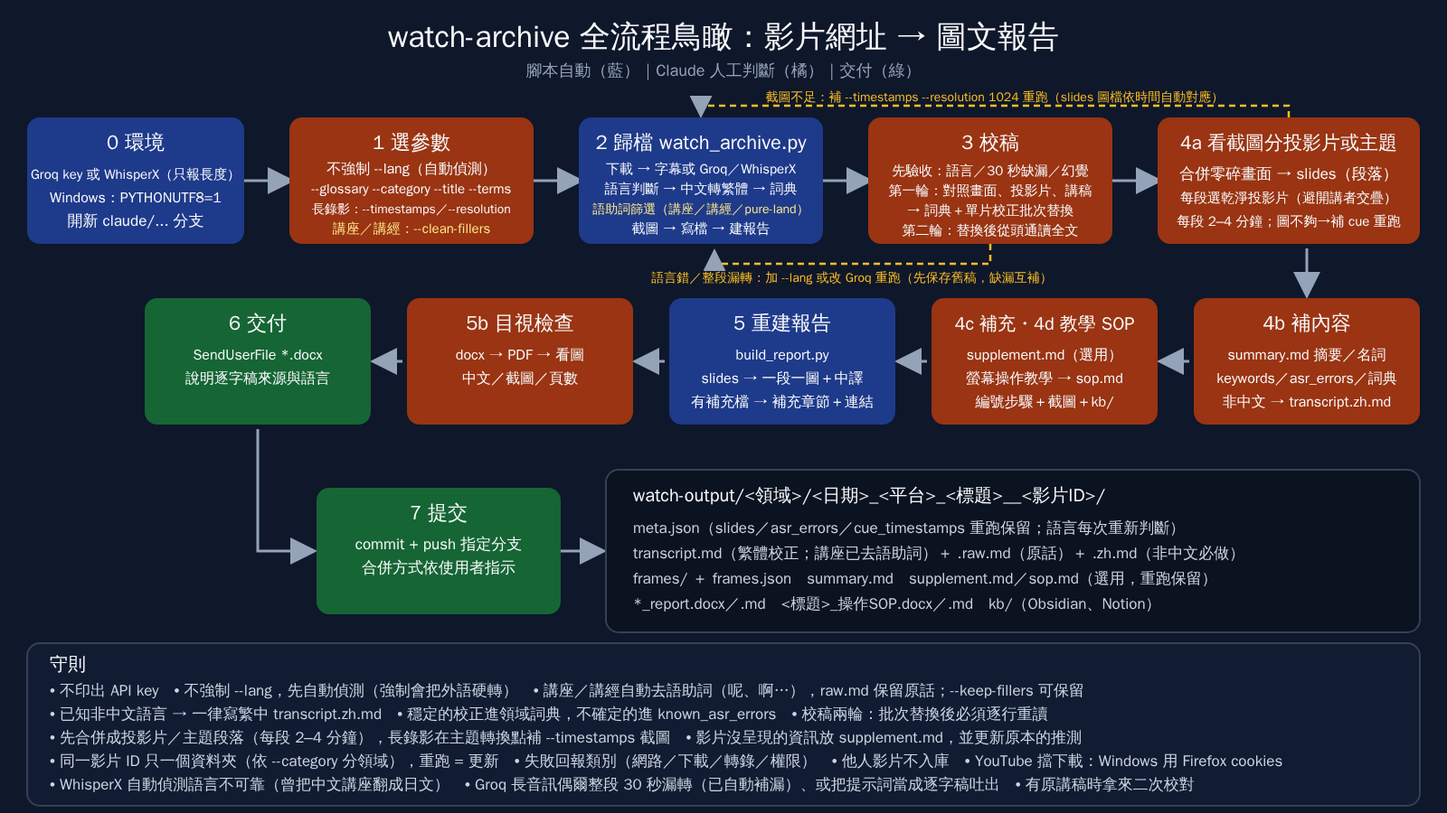
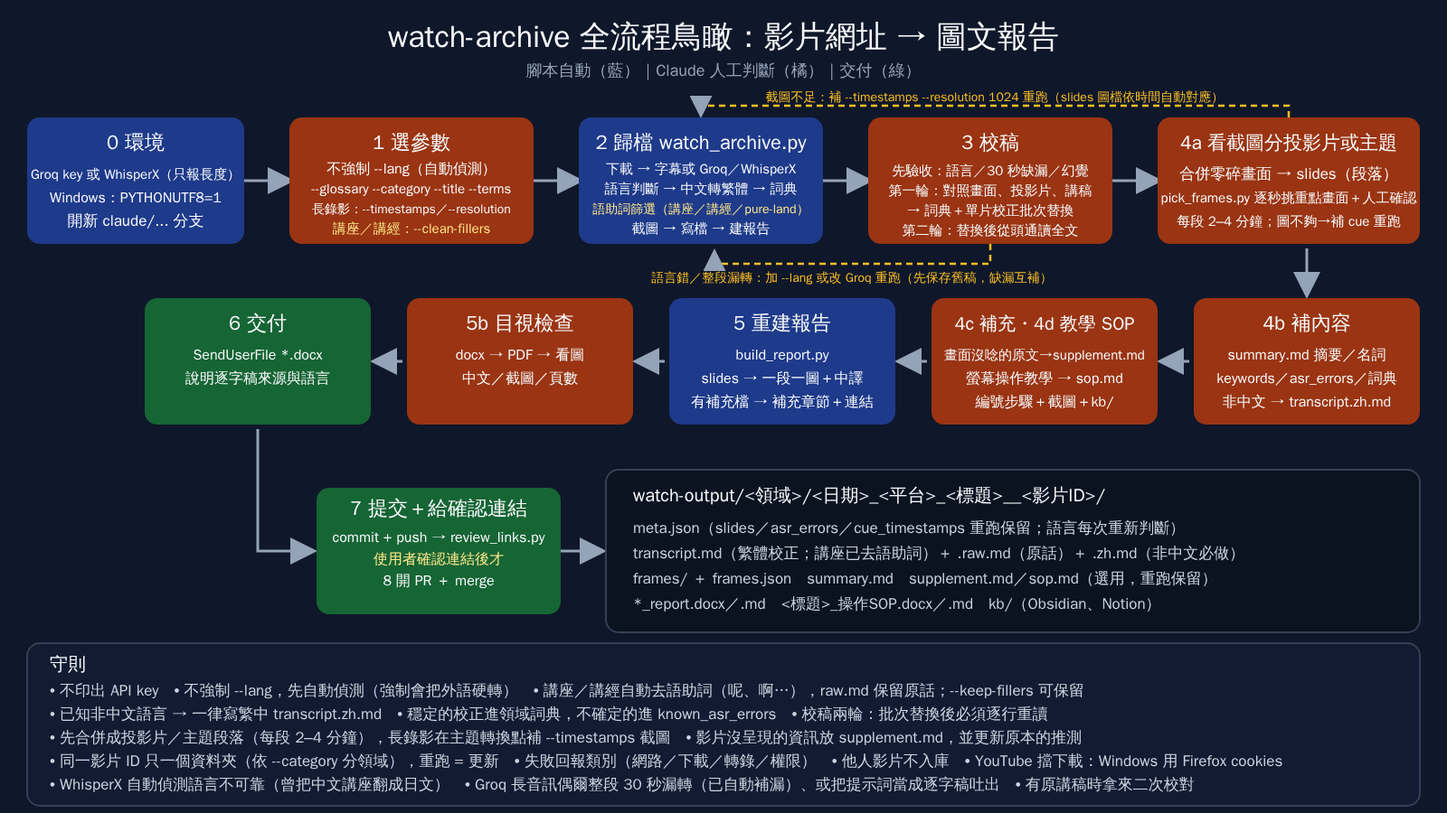
watch-archive 流程：確認連結、截圖對到重點、畫面轉補充資料 (#37)
* 流程：歸檔完成後先給確認連結（review_links.py），確認後才開 PR 並 merge；更新流程圖

Claude-Session: https://claude.ai/code/session_01L64g9APcu4JhruyafgYU1h

* 4a 截圖對到重點：新增 pick_frames.py（逐秒縮圖表＋建議秒數＋apply），技能、流程圖與 CLAUDE.md 加上做法

Claude-Session: https://claude.ai/code/session_01L64g9APcu4JhruyafgYU1h

* 4c 畫面／投影片轉補充資料：pick_frames.py text（原始解析度截圖＋同時段逐字稿），技能加判斷準則與抄錄步驟，更新流程圖

Claude-Session: https://claude.ai/code/session_01L64g9APcu4JhruyafgYU1h

---------

Changed region(s): [[0.2188, 0.5911, 0.375, 0.7156], [0.6562, 0.4044, 0.7812, 0.4667], [0.8125, 0.2178, 0.9688, 0.2489]]

diff --git a/scripts/pick_frames.py b/scripts/pick_frames.py
@@ -1,0 +1,188 @@
+#!/usr/bin/env python3
+"""Pick one key frame per slide so each report section shows its point (SKILL step 4a).
+
+Scene-change frames often land mid-animation or on a transition (half-drawn slides, blank cards). This samples the
+video once per second, scores every second inside each slide's time window (detail = how much is on screen,
+stability = how little it changes from its neighbours, i.e. the animation has finished), and writes labelled
+contact sheets so Claude can confirm or override the suggestion by eye. The chosen seconds are then grabbed at
+1024px as frames/slide_NN.jpg and wired into meta.json slides + frames.json.
+
+Usage:
+  python3 scripts/pick_frames.py sheet <folder> --video <file> [--out <dir>]   # contact sheets + suggested seconds
+  python3 scripts/pick_frames.py apply <folder> --video <file> --at "00:03,00:31,..."   # one time per slide
+  python3 scripts/pick_frames.py text <folder> --video <file> --out <dir>   # full-res slides + what was said, for supplement.md
+
+The video comes from `watch_archive.py --keep-media` (media/) or a yt-dlp download to the scratchpad; it is never
+committed. A rerun of watch_archive.py wipes frames/, so apply again after a rerun.
+"""
+import argparse
+import json
+import subprocess
+import sys
+import tempfile
+from pathlib import Path
+
+from PIL import Image, ImageChops, ImageDraw, ImageFilter, ImageFont, ImageStat
+
+sys.path.insert(0, str(Path(__file__).resolve().parent))
+from build_report import to_sec  # noqa: E402
+
+THUMB_W = 216
+CJK_FONTS = ("/usr/share/fonts/truetype/wqy/wqy-zenhei.ttc", "/usr/share/fonts/opentype/noto/NotoSansCJK-Regular.ttc",
+             "C:/Windows/Fonts/msjh.ttc")
+
+
+def label_font(size=16):
+    """A CJK-capable font so slide titles are readable on the sheet; PIL's default font turns 中文 into boxes."""
+    for f in CJK_FONTS:
+        if Path(f).exists():
+            return ImageFont.truetype(f, size)
+    return ImageFont.load_default()
+
+
+def windows(starts, duration):
+    """[start, end) seconds for each slide: from its start to the next slide's start (the last one to the end)."""
+    s = [to_sec(t) for t in starts]
+    return [(a, b) for a, b in zip(s, s[1:] + [int(duration) + 1])]
+
+
+def scores(thumbs):
+    """detail × stability² per second: rich, fully drawn and not mid-transition scores high."""
+    gray = [Image.open(p).convert("L") for p in thumbs]
+    detail = [ImageStat.Stat(g.filter(ImageFilter.FIND_EDGES)).mean[0] for g in gray]
+    out = []
+    for i, g in enumerate(gray):
+        diffs = [ImageStat.Stat(ImageChops.difference(g, gray[j])).mean[0] / 255
+                 for j in (i - 1, i + 1) if 0 <= j < len(gray)]
+        stability = 1 - max(diffs, default=0)
+        out.append(detail[i] * stability ** 2)
+    return out
+
+
+def best_in_window(score, start, end, margin=2):
+    """Highest-scoring second in [start, end); ties go to the later second (animations build up).
+
+    The first `margin` seconds and the last second are skipped when the window is long enough: at a slide boundary
+    the screen often still shows the previous slide or is mid-transition.
+    """
+    end = min(end, len(score))
+    lo, hi = (start + margin, end - 1) if end - start >= margin + 4 else (start, end)
+    rng = list(range(lo, hi))
+    return max(rng, key=lambda i: (score[i], i)) if rng else start
+
+
+def spoken_lines(transcript: str, start: int, end: int):
+    """Transcript lines whose [mm:ss] falls in [start, end): what the speaker actually said while a slide was up."""
+    out = []
+    for line in transcript.splitlines():
+        if line.startswith("[") and "]" in line:
+            try:
+                t = to_sec(line[1:line.index("]")])
+            except ValueError:
+                continue
+            if start <= t < end:
+                out.append(line)
+    return out
+
+
+def mmss(sec: int) -> str:
+    return f"{sec // 60:02d}:{sec % 60:02d}"
+
+
+def sample(video: Path, tmp: Path):
+    subprocess.run(["ffmpeg", "-v", "error", "-i", str(video), "-vf", f"fps=1,scale={THUMB_W}:-2", str(tmp / "%04d.jpg")],
+                   check=True)
+    return sorted(tmp.glob("*.jpg"))  # file k (0-based) ≈ second k
+
+
+def contact_sheet(thumbs, start, end, best, title, out: Path):
+    sub = list(range(start, min(end, len(thumbs))))
+    w, h = Image.open(thumbs[0]).size
+    cols = min(8, max(1, len(sub)))
+    rows = (len(sub) + cols - 1) // cols
+    sheet = Image.new("RGB", (w * cols, h * rows + 28), "white")
+    d = ImageDraw.Draw(sheet)
+    d.text((6, 4), title, fill="black", font=label_font())
+    for k, sec in enumerate(sub):
+        x, y = (k % cols) * w, (k // cols) * h + 28
+        sheet.paste(Image.open(thumbs[sec]), (x, y))
+        color = "lime" if sec == best else "red"
+        d.rectangle((x, y, x + 52, y + 18), fill=color)
+        d.text((x + 3, y + 3), mmss(sec), fill="black")
+        if sec == best:
+            d.rectangle((x, y, x + w - 1, y + h - 1), outline="lime", width=4)
+    sheet.save(out)
+
+
+def register_slides(folder: Path, picks):
+    """Point meta.json slides[i].frame at slide_NN.jpg and record them in frames.json (reason clean-slide)."""
+    meta = json.loads((folder / "meta.json").read_text(encoding="utf-8"))
+    frames = [f for f in json.loads((folder / "frames.json").read_text(encoding="utf-8")) if not f["file"].startswith("slide_")]
+    for i, sec in enumerate(picks, 1):
+        name = f"slide_{i:02d}.jpg"
+        meta["slides"][i - 1]["frame"] = name
+        frames.append({"file": name, "t": mmss(sec), "reason": "clean-slide"})
+    for p, data in (("meta.json", meta), ("frames.json", frames)):
+        (folder / p).write_text(json.dumps(data, ensure_ascii=False, indent=2) + "\n", encoding="utf-8")
+
+
+def main():
+    ap = argparse.ArgumentParser()
+    ap.add_argument("mode", choices=["sheet", "apply", "text"])
+    ap.add_argument("folder")
+    ap.add_argument("--video", required=True)
+    ap.add_argument("--out", help="where contact sheets go (default: a temp dir)")
+    ap.add_argument("--at", help="apply: comma-separated MM:SS, one per slide in order")
+    args = ap.parse_args()
+    folder, video = Path(args.folder), Path(args.video)
+    slides = json.loads((folder / "meta.json").read_text(encoding="utf-8")).get("slides", [])
+    if not slides:
+        sys.exit("meta.json has no slides yet: write slides (start/title/note) first, then pick frames")
+
+    if args.mode == "text":
+        # Claude reads these full-resolution frames (small code / prompt text is unreadable at report size) and compares
+        # them with what was said; only what is on screen but NOT spoken goes into supplement.md.
+        out = Path(args.out or tempfile.mkdtemp(prefix="screen_text_"))
+        out.mkdir(parents=True, exist_ok=True)
+        transcript = (folder / "transcript.md").read_text(encoding="utf-8")
+        frames = {f["file"]: f["t"] for f in json.loads((folder / "frames.json").read_text(encoding="utf-8"))}
+        duration = int(subprocess.run(["ffprobe", "-v", "error", "-show_entries", "format=duration", "-of", "csv=p=0",
+                                       str(video)], capture_output=True, text=True, check=True).stdout.strip().split(".")[0])
+        for i, ((a, b), sl) in enumerate(zip(windows([s["start"] for s in slides], duration), slides), 1):
+            t = frames.get(sl.get("frame", ""), sl["start"])
+            img = out / f"slide_{i:02d}_full.png"
+            subprocess.run(["ffmpeg", "-v", "error", "-y", "-ss", f"{to_sec(t)}.5", "-i", str(video), "-frames:v", "1",
+                            str(img)], check=True)
+            print(f"## {i:02d} {sl.get('title', '')}  [{mmss(a)}-{mmss(b)}]  screen at {t}: {img}")
+            print("\n".join(spoken_lines(transcript, a, b)) or "(nothing said)")
+            print()
+        return
+
+    if args.mode == "apply":
+        picks = [to_sec(t.strip()) for t in (args.at or "").split(",") if t.strip()]
+        if len(picks) != len(slides):
+            sys.exit(f"--at has {len(picks)} times but meta.json has {len(slides)} slides")
+        for i, sec in enumerate(picks, 1):
+            subprocess.run(["ffmpeg", "-v", "error", "-y", "-ss", f"{sec}.5", "-i", str(video), "-frames:v", "1",
+                            "-vf", "scale=1024:-2", str(folder / "frames" / f"slide_{i:02d}.jpg")], check=True)
+        register_slides(folder, picks)
+        print(f"{len(picks)} slide frames written; now run build_report.py and look at the PDF")
+        return
+
+    out = Path(args.out or tempfile.mkdtemp(prefix="pick_frames_"))
+    out.mkdir(parents=True, exist_ok=True)
+    with tempfile.TemporaryDirectory() as tmp:
+        thumbs = sample(video, Path(tmp))
+        score = scores(thumbs)
+        picks = []
+        for i, ((a, b), sl) in enumerate(zip(windows([s["start"] for s in slides], len(thumbs)), slides), 1):
+            best = best_in_window(score, a, b)
+            picks.append(mmss(best))
+            path = out / f"slide_{i:02d}.jpg"
+            contact_sheet(thumbs, a, b, best, f"{i:02d} {sl.get('title', '')} [{mmss(a)}-{mmss(b)}] suggested {mmss(best)}", path)
+            print(f"{i:02d} {mmss(a)}-{mmss(b)} suggested {mmss(best)}  sheet: {path}")
+    print("suggested --at", ",".join(picks))
+
+
+if __name__ == "__main__":
+    main()

diff --git a/tests/test_watch_archive.py b/tests/test_watch_archive.py
@@ -8,6 +8,8 @@ from unittest import mock
 
 sys.path.insert(0, str(Path(__file__).resolve().parent.parent / "scripts"))
 import build_report as br  # noqa: E402
+import pick_frames as pf  # noqa: E402
+import review_links as rl  # noqa: E402
 import watch_archive as wa  # noqa: E402
 
 
@@ -735,6 +737,49 @@ class Category(unittest.TestCase):
             (Path(t) / "2026-01-02_X_b__v2").mkdir()
             self.assertEqual([p.name for p in wa.find_dirs("v1")], ["2026-01-01_X_a__v1"])
             self.assertEqual([p.name for p in wa.find_dirs("v2")], ["2026-01-02_X_b__v2"])
+
+
+class ReviewLinks(unittest.TestCase):
+    def test_repo_slug_from_common_remotes(self):
+        for url in ("https://github.com/o/r.git", "git@github.com:o/r.git", "http://local_proxy@127.0.0.1:1/git/o/r"):
+            self.assertEqual(rl.repo_slug(url), "o/r")
+
+    def test_links_are_percent_encoded_and_point_at_branch(self):
+        links = dict(rl.build_links("o/r", "claude/x", "watch-output/AI/a b", ["summary.md"]))
+        self.assertEqual(links["資料夾"], "https://github.com/o/r/tree/claude/x/watch-output/AI/a%20b")
+        self.assertEqual(links["summary.md"], "https://github.com/o/r/blob/claude/x/watch-output/AI/a%20b/summary.md")
+        self.assertTrue(links["與 main 的差異（開 PR 前看這個）"].endswith("/compare/main...claude/x"))
+
+
+class PickFrames(unittest.TestCase):
+    def test_windows_run_from_each_start_to_the_next(self):
+        self.assertEqual(pf.windows(["00:00", "00:11", "01:05"], 80), [(0, 11), (11, 65), (65, 81)])
+
+    def test_best_skips_boundary_seconds_when_window_is_long(self):
+        score = [9, 9, 1, 5, 1, 1, 1, 9]  # seconds 0-1 still show the previous slide, 7 is the next transition
+        self.assertEqual(pf.best_in_window(score, 0, 8), 3)
+
+    def test_best_uses_whole_short_window_and_prefers_later_tie(self):
+        self.assertEqual(pf.best_in_window([2, 5, 5], 0, 3), 2)
+
+    def test_spoken_lines_only_inside_window(self):
+        tr = "# t\n```\n[00:09] a\n[00:10] b\n[00:19] c\n[00:20] d\n```"
+        self.assertEqual(pf.spoken_lines(tr, 10, 20), ["[00:10] b", "[00:19] c"])
+
+    def test_register_slides_points_meta_and_frames_at_slide_files(self):
+        import json
+        with tempfile.TemporaryDirectory() as t:
+            d = Path(t)
+            (d / "meta.json").write_text(json.dumps({"slides": [{"start": "00:00"}, {"start": "00:20"}]}), encoding="utf-8")
+            (d / "frames.json").write_text(json.dumps([{"file": "frame_0001.jpg", "t": "00:00", "reason": "x"},
+                                                       {"file": "slide_09.jpg", "t": "00:09", "reason": "clean-slide"}]), encoding="utf-8")
+            pf.register_slides(d, [3, 31])
+            meta = json.loads((d / "meta.json").read_text(encoding="utf-8"))
+            frames = json.loads((d / "frames.json").read_text(encoding="utf-8"))
+        self.assertEqual([s["frame"] for s in meta["slides"]], ["slide_01.jpg", "slide_02.jpg"])
+        self.assertEqual([(f["file"], f["t"]) for f in frames if f["reason"] == "clean-slide"],
+                         [("slide_01.jpg", "00:03"), ("slide_02.jpg", "00:31")])
+        self.assertIn("frame_0001.jpg", [f["file"] for f in frames])
 
 
 if __name__ == "__main__":

diff --git a/scripts/review_links.py b/scripts/review_links.py
@@ -1,0 +1,47 @@
+#!/usr/bin/env python3
+"""Print GitHub links for the user to confirm an archived report before any PR / merge (SKILL step 7).
+
+The branch must already be pushed. Links point at the branch, so they work before the PR is merged.
+
+Usage: python3 scripts/review_links.py watch-output/<領域>/<資料夾>
+"""
+import re
+import subprocess
+import sys
+from pathlib import Path
+from urllib.parse import quote
+
+REVIEW_FILES = ("summary.md", "transcript.zh.md", "supplement.md", "sop.md")
+
+
+def repo_slug(remote_url: str) -> str:
+    """owner/repo from an https/ssh remote, including the local-proxy form http://.../git/owner/repo."""
+    m = re.search(r"[:/]([^/:]+/[^/]+?)(?:\.git)?/?$", remote_url.strip())
+    if not m:
+        raise ValueError(f"cannot read owner/repo from remote '{remote_url}'")
+    return m.group(1)
+
+
+def build_links(slug: str, branch: str, folder: str, files) -> list:
+    base = f"https://github.com/{slug}"
+    b = quote(branch, safe="/")
+    out = [("資料夾", f"{base}/tree/{b}/{quote(folder)}")]
+    out += [(name, f"{base}/blob/{b}/{quote(folder + '/' + name)}") for name in files]
+    out.append(("與 main 的差異（開 PR 前看這個）", f"{base}/compare/main...{b}"))
+    return out
+
+
+def main():
+    if len(sys.argv) != 2:
+        sys.exit(__doc__)
+    folder = Path(sys.argv[1])
+    rel = folder.resolve().relative_to(Path.cwd().resolve()).as_posix()
+    files = sorted(p.name for p in folder.iterdir()
+                   if p.name.endswith(("_report.md", "_report.docx", "_操作SOP.docx")) or p.name in REVIEW_FILES)
+    run = lambda *a: subprocess.run(a, capture_output=True, text=True, check=True).stdout.strip()
+    for label, url in build_links(repo_slug(run("git", "remote", "get-url", "origin")), run("git", "branch", "--show-current"), rel, files):
+        print(f"{label}: {url}")
+
+
+if __name__ == "__main__":
+    main()

diff --git a/.claude/skills/watch-archive/SKILL.md b/.claude/skills/watch-archive/SKILL.md
@@ -23,8 +23,8 @@ description: 看影片並歸檔成圖文報告。使用者給影片網址（Face
 
 ```text
 網址 ─▶ 0 環境 ─▶ 1 選參數(不強制 --lang；長錄影加 --timestamps/--resolution；本地轉錄加 --local；講座／講經加 --clean-fillers) ─▶ 2 歸檔(下載→平台字幕或 Groq／WhisperX 轉錄→偵測語言→中文轉繁體→詞典校正→(講座／講經)去語助詞→截圖→報告)
-     ─▶ 3 校稿(先驗收：語言錯／重複幻覺／30 秒漏轉（已自動補漏）／提示詞外洩→保存舊稿後回到 2 重跑、兩次互補；第一輪批次替換→第二輪逐行重讀全文) ─▶ 4a 看截圖分投影片或主題(slides，每段 2–4 分鐘；截圖不足→補 cue 回到 2 重跑；講者交疊→改挑乾淨投影片)
-     ─▶ 4b 補內容(摘要/關鍵字/校正；非中文→transcript.zh.md) ─▶ 4c 補充資料(選用 supplement.md；有原講稿→二次校對) ─▶ 4d 電腦工具教學→操作 SOP(選用 sop.md) ─▶ 5 重建報告 ─▶ 5b 目視檢查 ─▶ 6 交付 ─▶ 7 提交
+     ─▶ 3 校稿(先驗收：語言錯／重複幻覺／30 秒漏轉（已自動補漏）／提示詞外洩→保存舊稿後回到 2 重跑、兩次互補；第一輪批次替換→第二輪逐行重讀全文) ─▶ 4a 看截圖分投影片或主題(slides，每段 2–4 分鐘；pick_frames.py 逐秒挑「對到重點」的截圖並人工確認；截圖不足→補 cue 回到 2 重跑；講者交疊→改挑乾淨投影片)
+     ─▶ 4b 補內容(摘要/關鍵字/校正；非中文→transcript.zh.md) ─▶ 4c 補充資料(選用 supplement.md；畫面有講者沒唸的原文→逐字抄進補充；有原講稿→二次校對) ─▶ 4d 電腦工具教學→操作 SOP(選用 sop.md) ─▶ 5 重建報告 ─▶ 5b 目視檢查 ─▶ 6 交付 ─▶ 7 提交＋給確認連結 ─▶ 使用者確認 ─▶ 8 PR＋merge
 ```
 
 藍＝腳本自動、橘＝Claude 判斷、綠＝交付；黃色虛線是兩條重跑回圈：「截圖不足時補 cue 重跑」（4a→2）與「語言錯／整段漏轉時重跑」（3→2）；圖源 `docs/watch-archive-flow.svg`。改圖後重新產生 PNG：
@@ -85,6 +85,15 @@ description: 看影片並歸檔成圖文報告。使用者給影片網址（Face
    - 改寫 `summary.md`：一句話重點、含時間戳的重點表、名詞與縮寫說明、轉錄校正備註。評論／立場性影片寫「講者主張…」，數字註明未經查證。
    - 編輯 `meta.json`（重跑時以下欄位會保留）：`video_type`（`tutorial`＝電腦工具教學→4d SOP；`lecture`＝講座／講經→去語助詞）、`keywords`（約 8–10 個）、`section_keywords`（key 為畫面起始時間，如 `"00:12"`）、`known_asr_errors`（`{"time","heard","expected"}`，推測的要標「推測」）、`slides`（見下）。
    - **投影片／主題分段**：看 `frames/` 後在 `meta.json` 寫 `slides`。簡報類影片一張投影片一段；沒有投影片的影片（訪談、實拍、操作畫面）則依講述主題或場景切段，每段的 `start` 取該主題開始的時間、`title` 寫主題名：`[{"start":"00:06","frame":"frame_0019.jpg","title":"…","note":"本張投影片重點","keywords":[…]}]`，報告就會「每段一張圖 + 說明文字 + 該段逐字稿」，不再逐畫面切碎。**每段以 2–4 分鐘為宜，不要超過約 5 分鐘**；超過就再切，並確認每段都有一張屬於該段內容的截圖（不夠就補 `--timestamps`）。`frame` 選字幕與游標最乾淨的一張；沒有 `slides` 時才退回逐畫面。
+   - **截圖要對到重點（每段一張「講到這裡的那一張」）**：自動抽圖依畫面變化挑圖，逐頁動畫、轉場、標題卡很常被抓到，截圖就看不出這段在講什麼（例：提示詞 7 招影片，原本的截圖停在翻頁中間或只有大數字）。做法：
+     1. 先寫好 `slides`（每段的 `start`、`title`、`note`），段落以逐字稿的主題轉換點切。
+     2. 取得影片：歸檔時加 `--keep-media`（存在 `media/`，不入庫），或用 yt-dlp 下載到暫存區。
+     3. `python3 scripts/pick_frames.py sheet watch-output/<領域>/<資料夾> --video <影片> --out <暫存區>`：每秒取一張縮圖，替每段產生標了秒數的縮圖表，並建議一個秒數（綠框；依「畫面內容多」×「前後一秒沒在變化（動畫已跑完）」評分，略過段落開頭 2 秒與最後 1 秒的轉場）。
+     4. **用 Read 看每段縮圖表，確認建議的畫面真的對到這段的 `note`**：選畫面上的字和這段說明一致、資訊最完整的那一秒（條列跑完、引用句出現、對照表完整）。建議只看畫面豐富度，不懂內容，常會挑到同一段裡的次要畫面（例：第 2 招挑到 Eric 的引言，而不是「舊提醒句」主圖），這時改用自己挑的秒數。
+     5. `python3 scripts/pick_frames.py apply <資料夾> --video <影片> --at "MM:SS,…"`（一段一個時間）：以 1024px 截成 `frames/slide_NN.jpg`、寫進 `frames.json`（`reason: clean-slide`）並更新 `slides[].frame`。
+     6. 重建報告，轉 PDF 逐段確認截圖與說明對得上。
+     7. 畫面上有說明欄放不下的重點文字（提示詞、程式碼、對照表、引用原文）時，從高解析度截圖逐字抄進 `supplement.md`（類型「畫面遺漏」），報告會自動多一節。
+     - 重跑 `watch_archive.py` 會清空 `frames/`，`slide_NN.jpg` 要重新 apply（秒數記在 `frames.json` 的 `t`）。
    - **講者與投影片交疊的影片**（直播講座常見：投影片全螢幕＋左下角講者小視窗，換頁時有講者與投影片半透明交疊的轉場）：自動抽圖常抓到交疊畫面，使用者不要。做法：
      1. 用 yt-dlp 把影片下載到暫存區（不入庫，用完刪除），以 `ffmpeg -vf fps=1/2,scale=192:-1` 每 2 秒抽一張縮圖。
      2. 判斷乾淨投影片：投影片主體區（避開左下角小視窗）淡色像素比例高、背景色（例如講堂的藍色）比例低，而且前後各 2 秒也是乾淨的（避開轉場）。門檻依影片配色調整。
@@ -103,6 +112,17 @@ description: 看影片並歸檔成圖文報告。使用者給影片網址（Face
      - **來源要完整**：誰提供、原始位置（說明欄／留言…）、取得日期、取得方式；並標對應的畫面檔名與時間。
      - **未查證的一律進備註**：主張、數字、模型名稱與版本號。
      - 補充若解決了 `known_asr_errors` 或摘要裡的推測，一併更新，用語依上面分級。
+     - **畫面／投影片 → 補充資料（先判斷有沒有意義）**：投影片、螢幕錄影、字卡上常有講者沒唸出來的內容；逐字稿只有聲音，這些資訊會整個漏掉。
+       1. **取得可讀的畫面與同時段講的話**：`python3 scripts/pick_frames.py text <資料夾> --video <影片> --out <暫存區>`，每段輸出一張原始解析度截圖（報告裡的 1024px 縮圖讀不清程式碼與小字），並列出這段時間的逐字稿。小字再用 ffmpeg `crop` 放大局部。截圖只放暫存區，不入庫。
+       2. **判斷有沒有意義**：用 Read 看圖，把畫面上的字和同時段逐字稿比對，符合下列任一項才值得寫進補充：
+          - 畫面有、講者沒唸的**原文**：提示詞、程式碼、指令、設定值、對照表、清單、引用的英文原句、網址、人名／出處、數字。
+          - 畫面用**視覺標記**傳達意思：劃線刪除、前後對照（Before／After、Bad／Good）、計數（2/8、4/4）、箭頭流程、紅綠兩欄。
+          - 講者口述是摘要，畫面是完整版（例：講者說「Anthropic 說全部做完才停」，畫面是整句英文原文）。
+          不寫：只是把講者的話打成字幕、標題卡、Logo、裝飾、與逐字稿重複的條列。
+       3. **逐字抄錄**：以原始解析度截圖為準，一字不改放進 ``` 區塊，保留行號與原有換行；劃線、紅框、箭頭等視覺標記用「← 劃掉」「（畫面標：…）」這類註記寫在行尾，並在備註說明註記是 Claude 加的。看不清的字寫「（看不清）」，不要猜。
+       4. **分節**：同一份東西的演變放一節（例：範例 SYSTEM_PROMPT.md 改寫前 8 行／改寫後 4 行），各段零散的示範句合成一節並標時間（例：第 1、2、3、6、7 招的示範句）。每節標類型「畫面遺漏」，來源寫「影片畫面」與截圖檔名、時間；講者自製的示意範例要註明「不是官方文字」。
+       5. **對照分析**：說明每段畫面文字對應影片哪個說法（例：劃掉的 4 行各對應第 1、2、4、5 招），分清「與影片一致」「畫面直接寫明」「據此推定」。畫面上的出處、模型名稱、版本號一律進備註標未查證。
+       6. 畫面若**證實或推翻**逐字稿裡的推測（例：預設 effort 原標推測，00:30 畫面直接寫明），回頭更新 `known_asr_errors` 與摘要。
      - **原講稿／講義二次校對**：影片是在帶讀某份講稿時（例如明倫月刊的雪公講稿），用 curl 抓原始網頁全文（WebFetch 只給摘要，不能逐字比對），依講稿校正用字（例如「游魂為變」）並寫成一節補充（類型「連結」）。要分清「原稿有、影片一致」和「原稿沒有、是影片主講者自己的延伸」：後者不能用原稿去改，只能依上下文或投影片判斷。
      - 範本（`###` 小節在報告中會顯示為粗體行）：
 
@@ -134,7 +154,9 @@ description: 看影片並歸檔成圖文報告。使用者給影片網址（Face
 
 6. **交付**：用 SendUserFile 傳 `*_report.docx`（有 SOP 時一併傳 `*_操作SOP.docx`，並提醒 `kb/` 可放進 Obsidian／Notion）；回覆寫摘要重點，並說明逐字稿是 Groq 轉錄、本地 WhisperX 轉錄還是平台字幕（`meta.json.transcript_source`）；外語影片註明已附中譯（`transcript.zh.md`）。
 
-7. **提交**：在 `claude/...` 分支 commit 並 push。合併方式依使用者指示（PR + Squash and merge，或直接合併）；使用者沒說就先問，不強制 push、不重用已合併分支。
+7. **提交並給確認連結**：在 `claude/...` 分支 commit 並 push（不強制 push、不重用已合併分支），然後跑 `python3 scripts/review_links.py watch-output/<領域>/<資料夾>`，把輸出的連結（資料夾、報告 md／docx、摘要、中譯、與 `main` 的差異）貼給使用者確認。**使用者確認前不開 PR、不 merge**；連結指向分支，未合併也打得開。回覆同時列出需要使用者確認的判斷（領域是否合適、標題、標「推測」的校正）。
+
+8. **確認後開 PR 並 merge**：使用者確認（或指出要修改的地方，改完再重給連結）後，才開 PR；合併方式依使用者指示（PR + Squash and merge，或直接合併），使用者沒說就先問。
 
 ## 注意
 

diff --git a/CLAUDE.md b/CLAUDE.md
@@ -15,10 +15,12 @@
 - 長的螢幕錄影／notebook／投影片影片（自動抽圖會跳過緩慢捲動的畫面）：先歸檔一次、讀逐字稿找出各主題開始時間，在每個時間點後約 20–40 秒放 cue（避開標題卡與轉場），以 `--timestamps "MM:SS,…,H:MM:SS" --resolution 1024` 重跑；兩值記在 `meta.json`，`slides` 的圖檔會依時間自動對應。重跑後先拼縮圖檢查每張 cue 截圖都有內容。
 - 轉錄完先驗收再校稿：語言對不對、有沒有重複幻覺、有沒有約 30 秒的整段漏轉（`whisper.py` 已自動補漏，看 `[watch] refilled` 訊息）、有沒有提示詞外洩。要重跑時，先保存舊稿以便互補。
 - 報告截圖只放乾淨的畫面：講者與投影片交疊的轉場不要用，改挑投影片全螢幕的畫面（做法見 SKILL 4a）。
+- 每段截圖要對到該段重點：用 `scripts/pick_frames.py sheet` 逐秒產生縮圖表與建議，**自己看圖確認對到 `note`** 再 `apply`；畫面上講者沒唸的提示詞／程式碼／對照表，用 `pick_frames.py text` 取原始解析度截圖與同時段逐字稿比對後，逐字抄進 `supplement.md`（SKILL 4a、4c）。
 - 影片在帶讀某份講稿時，用原講稿做二次校對；原稿沒有的內容是影片主講者的延伸，不能用原稿去改。
 - 講座／講經（口語演講）：歸檔時加 `--clean-fillers`（`--glossary pure-land` 自動開啟，`meta.json.video_type: "lecture"` 重跑也會開），自動去除逐字稿的「呢」「啊」等語助詞；`--keep-fillers` 保留，`transcript.raw.md` 保留原話；見 SKILL 步驟 3。
 - 電腦工具教學影片（螢幕操作示範）：消化報告後另寫 `sop.md`（依任務分章、編號步驟、按鈕名稱照畫面原文、截圖寫 `![說明](frame@MM:SS)`、沒示範的標「影片未示範」／「推測」），重建後有 `*_操作SOP.docx` 與可放進 Obsidian／Notion 的 `kb/`；見 SKILL 4d。
 - 交付前把 docx 轉 PDF 目視檢查（中文、截圖、頁數）。
+- 歸檔完成並 push 到分支後，用 `python3 scripts/review_links.py watch-output/<領域>/<資料夾>` 產生連結給使用者確認；使用者確認前不開 PR、不 merge。
 - 他人影片檔不入庫，只存報告與截圖（`media/` 已 gitignore）。
 
 - 歸檔結果在 `watch-output/<領域>/<資料夾>/`；新影片歸檔時用 `--category` 指定領域，只能用白名單 `glossary/categories.json` 的值（AI／佛學／商業理財／身心生活／電子／雲端／未分類）；沒指定會依詞典檔的 `category` 推測或落入「未分類」（印 WARNING），交付前確認。新增領域要先改白名單；領域名稱有中文時一律用繁體，不用簡體（輸入簡體會自動轉繁）。
